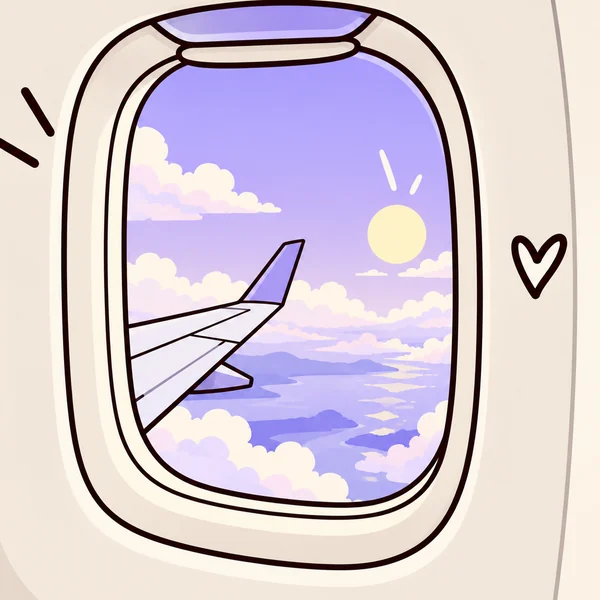
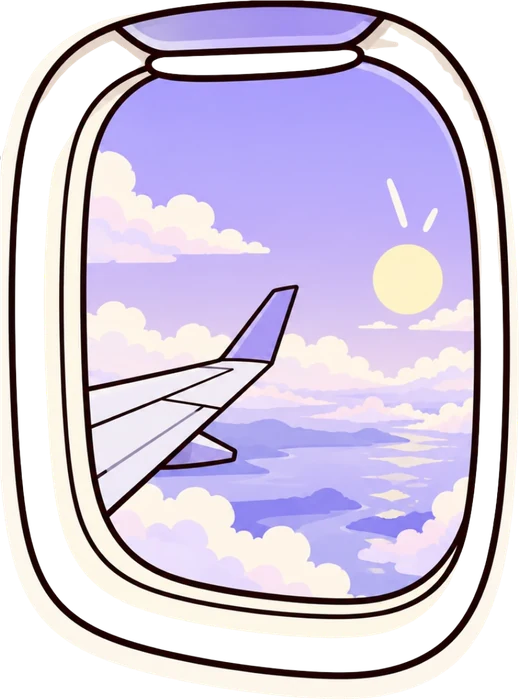
Čo je unwaiting: okno lietadla bez pozadia

diff --git a/index.html b/index.html
@@ -236,7 +236,7 @@
             </div>
           </article>
           <article class="pillar bg-dark">
-            <span class="pillar-art badge badge-photo"><img src="img/kresby/lietadlo.webp" alt="" width="600" height="600" loading="lazy"></span>
+            <img class="pillar-art" src="img/kresby/lietadlo.webp?v=2" alt="" width="519" height="700" loading="lazy">
             <p class="label">Život</p>
             <div>
               <h3>Žiješ <span class="accent-lime">teraz</span></h3>
